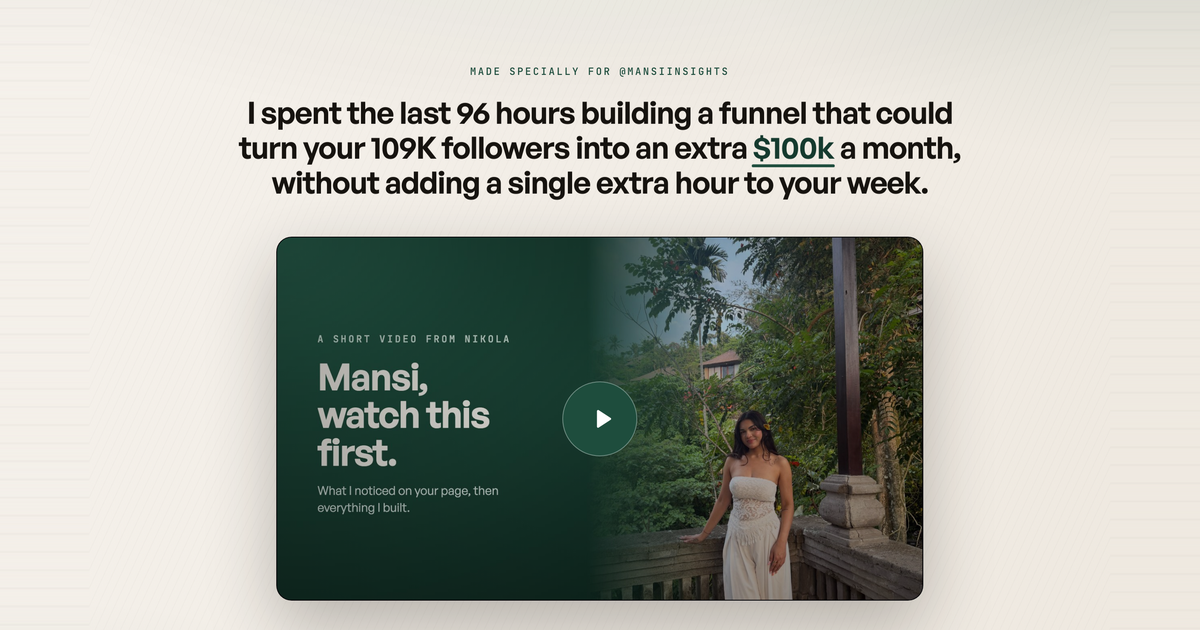
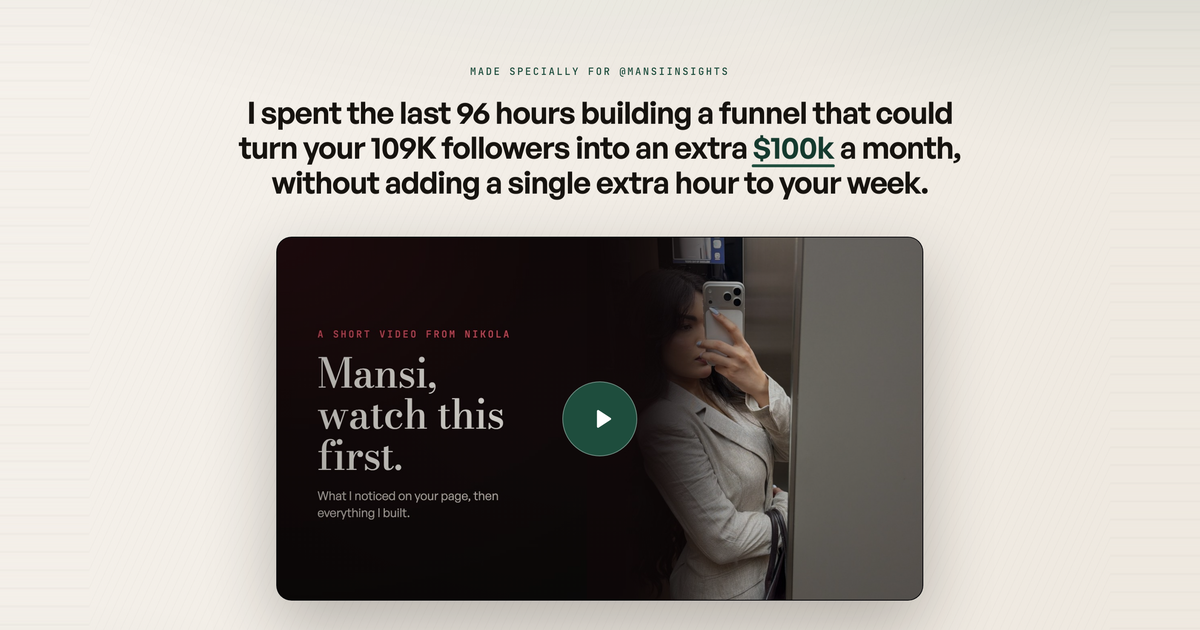
First-person landing, black/red poster

Changed region(s): [[0.2158, 0.3619, 0.7708, 0.9651]]

diff --git a/index.html b/index.html
@@ -72,7 +72,7 @@
         <div class="hplayer reveal">
           <div class="hplayer__stage" id="hp-stage" data-state="idle">
             <video class="hplayer__video" id="hp-video" playsinline preload="metadata" muted
-                   poster="assets/img/hero-poster.jpg">
+                   poster="assets/img/hero-poster.jpg?v=1792693476">
               <source src="assets/video/hero.mp4" type="video/mp4" />
               <track id="hp-track" kind="captions" src="assets/video/hero.vtt" srclang="en" label="English" />
             </video>
@@ -186,7 +186,7 @@
             <span class="group__rule"></span>
           </div>
           <div class="grid grid--1">
-            <button class="pcard pcard--wide reveal" data-title="The high-ticket offer" data-embed="offer/?v=1792692544">
+            <button class="pcard pcard--wide reveal" data-title="The high-ticket offer" data-embed="offer/?v=1792693476">
               <span class="thumb thumb--wide"><span class="thumb__bar"><i></i><i></i><i></i><span class="thumb__url">closingroom.ae/the-closing-room</span></span><img class="thumb__img" src="assets/img/offer-preview.jpg" alt="The Closing Room preview" loading="lazy" /></span>
               <span class="pcard__body"><span><span class="pcard__kicker">01 · The offer</span><span class="pcard__title">The Closing Room</span><span class="pcard__desc">A 12-week programme built on your Quiet Yes, with real call reviews and a script written for each member.</span></span><span class="pcard__link">Open preview <span class="arrow" aria-hidden="true"></span></span></span>
             </button>
@@ -200,7 +200,7 @@
             <span class="group__rule"></span>
           </div>
           <div class="grid grid--1">
-            <button class="pcard pcard--wide reveal" data-title="Your YouTube flywheel" data-embed="youtube-flywheel/?v=1792692544">
+            <button class="pcard pcard--wide reveal" data-title="Your YouTube flywheel" data-embed="youtube-flywheel/?v=1792693476">
               <span class="thumb thumb--wide"><span class="thumb__bar"><i></i><i></i><i></i><span class="thumb__url">your free full course</span></span><img class="thumb__img" src="assets/img/flywheel-preview.jpg" alt="YouTube flywheel preview" loading="lazy" /></span>
               <span class="pcard__body"><span><span class="pcard__kicker">01 · Start here</span><span class="pcard__title">Your YouTube flywheel</span><span class="pcard__desc">One free full course on YouTube that does the selling: the thumbnail, the course outline, the two links under every video and the pinned comment.</span></span><span class="pcard__link">Open preview <span class="arrow" aria-hidden="true"></span></span></span>
             </button>
@@ -214,11 +214,11 @@
             <span class="group__rule"></span>
           </div>
           <div class="grid grid--2">
-            <button class="pcard reveal" data-title="VSL + book a call" data-embed="vsl/?v=1792692544">
+            <button class="pcard reveal" data-title="VSL + book a call" data-embed="vsl/?v=1792693476">
               <span class="thumb"><span class="thumb__bar"><i></i><i></i><i></i><span class="thumb__url">closingroom.ae/training</span></span><img class="thumb__img" src="assets/img/vsl-preview.jpg?v=1792692544" alt="VSL sales page preview" loading="lazy" /></span>
               <span class="pcard__body"><span><span class="pcard__kicker">01 · Your link in bio</span><span class="pcard__title">VSL + book a call</span><span class="pcard__desc">One page: the free training (email to unlock), then the application right underneath it.</span></span><span class="pcard__link">Open preview <span class="arrow" aria-hidden="true"></span></span></span>
             </button>
-            <button class="pcard reveal" data-title="Thank-you page" data-embed="thank-you/?v=1792692544">
+            <button class="pcard reveal" data-title="Thank-you page" data-embed="thank-you/?v=1792693476">
               <span class="thumb"><span class="thumb__bar"><i></i><i></i><i></i><span class="thumb__url">closingroom.ae/booked</span></span><img class="thumb__img" src="assets/img/thankyou-preview.jpg" alt="Thank-you page preview" loading="lazy" /></span>
               <span class="pcard__body"><span><span class="pcard__kicker">02 · Booked</span><span class="pcard__title">Thank-you page</span><span class="pcard__desc">Your welcome video plus the answers people need before they show up to the call.</span></span><span class="pcard__link">Open preview <span class="arrow" aria-hidden="true"></span></span></span>
             </button>
@@ -232,7 +232,7 @@
             <span class="group__rule"></span>
           </div>
           <div class="grid grid--1">
-            <button class="pcard pcard--wide reveal" data-title="VSL script" data-embed="vsl-script/?v=1792692544">
+            <button class="pcard pcard--wide reveal" data-title="VSL script" data-embed="vsl-script/?v=1792693476">
               <span class="thumb thumb--wide"><span class="thumb__bar"><i></i><i></i><i></i><span class="thumb__url">script · 8 beats</span></span><img class="thumb__img" src="assets/img/vslscript-preview.jpg" alt="VSL script preview" loading="lazy" /></span>
               <span class="pcard__body"><span><span class="pcard__kicker">~14 min · 8 beats</span><span class="pcard__title">VSL script</span><span class="pcard__desc">Eleven boxes, from "one of ten PDFs" to the 2 questions, written in your own words.</span></span><span class="pcard__link">Open preview <span class="arrow" aria-hidden="true"></span></span></span>
             </button>
@@ -246,15 +246,15 @@
             <span class="group__rule"></span>
           </div>
           <div class="grid grid--3">
-            <button class="pcard reveal" data-title="Static ad" data-embed="static-ad/?v=1792692544" data-noanim>
+            <button class="pcard reveal" data-title="Static ad" data-embed="static-ad/?v=1792693476" data-noanim>
               <span class="thumb"><span class="thumb__bar"><i></i><i></i><i></i><span class="thumb__url">instagram.com/mansiinsights</span></span><img class="thumb__img" src="assets/img/static-ad-preview.jpg" alt="Static ad preview" loading="lazy" /></span>
               <span class="pcard__body"><span><span class="pcard__kicker">01 · Static</span><span class="pcard__title">Static ad</span><span class="pcard__desc">The free training as one image, with a "comment UNLOCK" call to action.</span></span><span class="pcard__link">Open preview <span class="arrow" aria-hidden="true"></span></span></span>
             </button>
-            <button class="pcard reveal" data-title="Ad creative scripts" data-embed="ad-scripts/?v=1792692544">
+            <button class="pcard reveal" data-title="Ad creative scripts" data-embed="ad-scripts/?v=1792693476">
               <span class="thumb"><span class="thumb__bar"><i></i><i></i><i></i><span class="thumb__url">scripts · 5 angles</span></span><img class="thumb__img" src="assets/img/adscripts-preview.jpg" alt="Ad creative scripts preview" loading="lazy" /></span>
               <span class="pcard__body"><span><span class="pcard__kicker">02 · Video</span><span class="pcard__title">Ad creative scripts</span><span class="pcard__desc">Five short scripts. Each ends with "comment UNLOCK and I'll send you the free training".</span></span><span class="pcard__link">Open preview <span class="arrow" aria-hidden="true"></span></span></span>
             </button>
-            <button class="pcard reveal" data-title="Instagram carousel" data-embed="carousel/phone/?v=1792692544" data-noanim>
+            <button class="pcard reveal" data-title="Instagram carousel" data-embed="carousel/phone/?v=1792693476" data-noanim>
               <span class="thumb"><span class="thumb__bar"><i></i><i></i><i></i><span class="thumb__url">instagram.com/mansiinsights</span></span><img class="thumb__img" src="assets/img/carousel-preview.jpg" alt="Carousel preview" loading="lazy" /></span>
               <span class="pcard__body"><span><span class="pcard__kicker">03 · Carousel</span><span class="pcard__title">Carousel</span><span class="pcard__desc">Ten slides. It opens with "stop sending the details" and every slide pulls you to the next.</span></span><span class="pcard__link">Open preview <span class="arrow" aria-hidden="true"></span></span></span>
             </button>
@@ -268,15 +268,15 @@
             <span class="group__rule"></span>
           </div>
           <div class="grid grid--3">
-            <button class="pcard reveal" data-title="Opted-in email sequence" data-embed="opted-in/?v=1792692544">
+            <button class="pcard reveal" data-title="Opted-in email sequence" data-embed="opted-in/?v=1792693476">
               <span class="thumb"><span class="thumb__bar"><i></i><i></i><i></i><span class="thumb__url">sequence · 8 emails</span></span><img class="thumb__img" src="assets/img/optedin-preview.jpg" alt="Opted-in preview" loading="lazy" /></span>
               <span class="pcard__body"><span><span class="pcard__kicker">01 · Opted in</span><span class="pcard__title">Opted-in</span><span class="pcard__desc">Eight emails, one useful tip a day from your own reels, with the call only in the P.S.</span></span><span class="pcard__link">Open preview <span class="arrow" aria-hidden="true"></span></span></span>
             </button>
-            <button class="pcard reveal" data-title="Applied-not-booked email sequence" data-embed="applied-not-booked/?v=1792692544">
+            <button class="pcard reveal" data-title="Applied-not-booked email sequence" data-embed="applied-not-booked/?v=1792693476">
               <span class="thumb"><span class="thumb__bar"><i></i><i></i><i></i><span class="thumb__url">sequence · 4 emails</span></span><img class="thumb__img" src="assets/img/anb-preview.jpg" alt="Applied, not booked preview" loading="lazy" /></span>
               <span class="pcard__body"><span><span class="pcard__kicker">02 · Applied</span><span class="pcard__title">Applied, not booked</span><span class="pcard__desc">Four emails that get an applicant onto your team's calendar.</span></span><span class="pcard__link">Open preview <span class="arrow" aria-hidden="true"></span></span></span>
             </button>
-            <button class="pcard reveal" data-title="Pre-call email sequence" data-embed="pre-call/?v=1792692544">
+            <button class="pcard reveal" data-title="Pre-call email sequence" data-embed="pre-call/?v=1792693476">
               <span class="thumb"><span class="thumb__bar"><i></i><i></i><i></i><span class="thumb__url">sequence · 6 emails</span></span><img class="thumb__img" src="assets/img/precall-preview.jpg" alt="Pre-call preview" loading="lazy" /></span>
               <span class="pcard__body"><span><span class="pcard__kicker">03 · Booked to call</span><span class="pcard__title">Pre-call</span><span class="pcard__desc">Six emails that walk a booked applicant to the call pre-sold.</span></span><span class="pcard__link">Open preview <span class="arrow" aria-hidden="true"></span></span></span>
             </button>

diff --git a/vsl/index.html b/vsl/index.html
@@ -60,24 +60,24 @@
 
     <section class="lt-numbers">
       <p class="lt-kicker"><i></i>The numbers</p>
-      <h2 class="lt-h2">The numbers behind <em>Mansi.</em></h2>
+      <h2 class="lt-h2">The numbers <em>behind me.</em></h2>
       <div class="lt-numbers__grid">
-        <div><b>109K</b><span>people learning sales from her</span></div>
+        <div><b>109K</b><span>people learning sales from me</span></div>
         <div><b>3M</b><span>plays on one Reel</span></div>
-        <div><b>AED 3,500</b><span>her first sales job in 2019, now CEO of FounderX</span></div>
+        <div><b>AED 3,500</b><span>my first sales job in 2019. Today I&rsquo;m CEO of FounderX</span></div>
       </div>
     </section>
 
     <section class="lt-cases">
       <p class="lt-kicker"><i></i>Real results</p>
       <h2 class="lt-h2">From sales executive <em>to CEO.</em></h2>
-      <p class="lt-sub">She started as a business set-up advisor in 2019, became the one who closed the biggest clients, and built FounderX in Business Bay.</p>
-      <div class="lt-cases__row"><article class="lt-case"><div class="lt-case__img"><img src="../assets/img/proof/p4.jpg" alt="Mansi Panchal" loading="lazy" /></div><h3>CEO of FounderX</h3><p>Company formation in Business Bay, Dubai</p></article><article class="lt-case"><div class="lt-case__img"><img src="../assets/img/proof/p1.jpg" alt="Mansi Panchal" loading="lazy" /></div><h3>3M plays</h3><p>Her G-Wagon Reel</p></article><article class="lt-case"><div class="lt-case__img"><img src="../assets/img/proof/p6.jpg" alt="Mansi Panchal" loading="lazy" /></div><h3>109K followers</h3><p>Who come to her for sales advice</p></article></div>
+      <p class="lt-sub">I started as a business set-up advisor in 2019, became the one who closed the biggest clients, and built FounderX in Business Bay.</p>
+      <div class="lt-cases__row"><article class="lt-case"><div class="lt-case__img"><img src="../assets/img/proof/p4.jpg" alt="Mansi Panchal" loading="lazy" /></div><h3>CEO of FounderX</h3><p>Company formation in Business Bay, Dubai</p></article><article class="lt-case"><div class="lt-case__img"><img src="../assets/img/proof/p1.jpg" alt="Mansi Panchal" loading="lazy" /></div><h3>3M plays</h3><p>My G-Wagon Reel</p></article><article class="lt-case"><div class="lt-case__img"><img src="../assets/img/proof/p6.jpg" alt="Mansi Panchal" loading="lazy" /></div><h3>109K followers</h3><p>Who come to me for sales advice</p></article></div>
     </section>
 
     <section class="lt-wins">
       <p class="lt-kicker"><i></i>Want to see more?</p>
-      <h2 class="lt-h2">A day in <em>her world.</em></h2>
+      <h2 class="lt-h2">A day in <em>my world.</em></h2>
       <div class="lt-wins__grid"><figure class="lt-win"><img src="../assets/img/proof/p2.jpg" alt="Mansi Panchal" loading="lazy" /></figure><figure class="lt-win"><img src="../assets/img/proof/p3.jpg" alt="Mansi Panchal" loading="lazy" /></figure><figure class="lt-win"><img src="../assets/img/proof/p5.jpg" alt="Mansi Panchal" loading="lazy" /></figure><figure class="lt-win"><img src="../assets/img/proof/p7.jpg" alt="Mansi Panchal" loading="lazy" /></figure><figure class="lt-win"><img src="../assets/img/proof/p8.jpg" alt="Mansi Panchal" loading="lazy" /></figure></div>
     </section>
 
